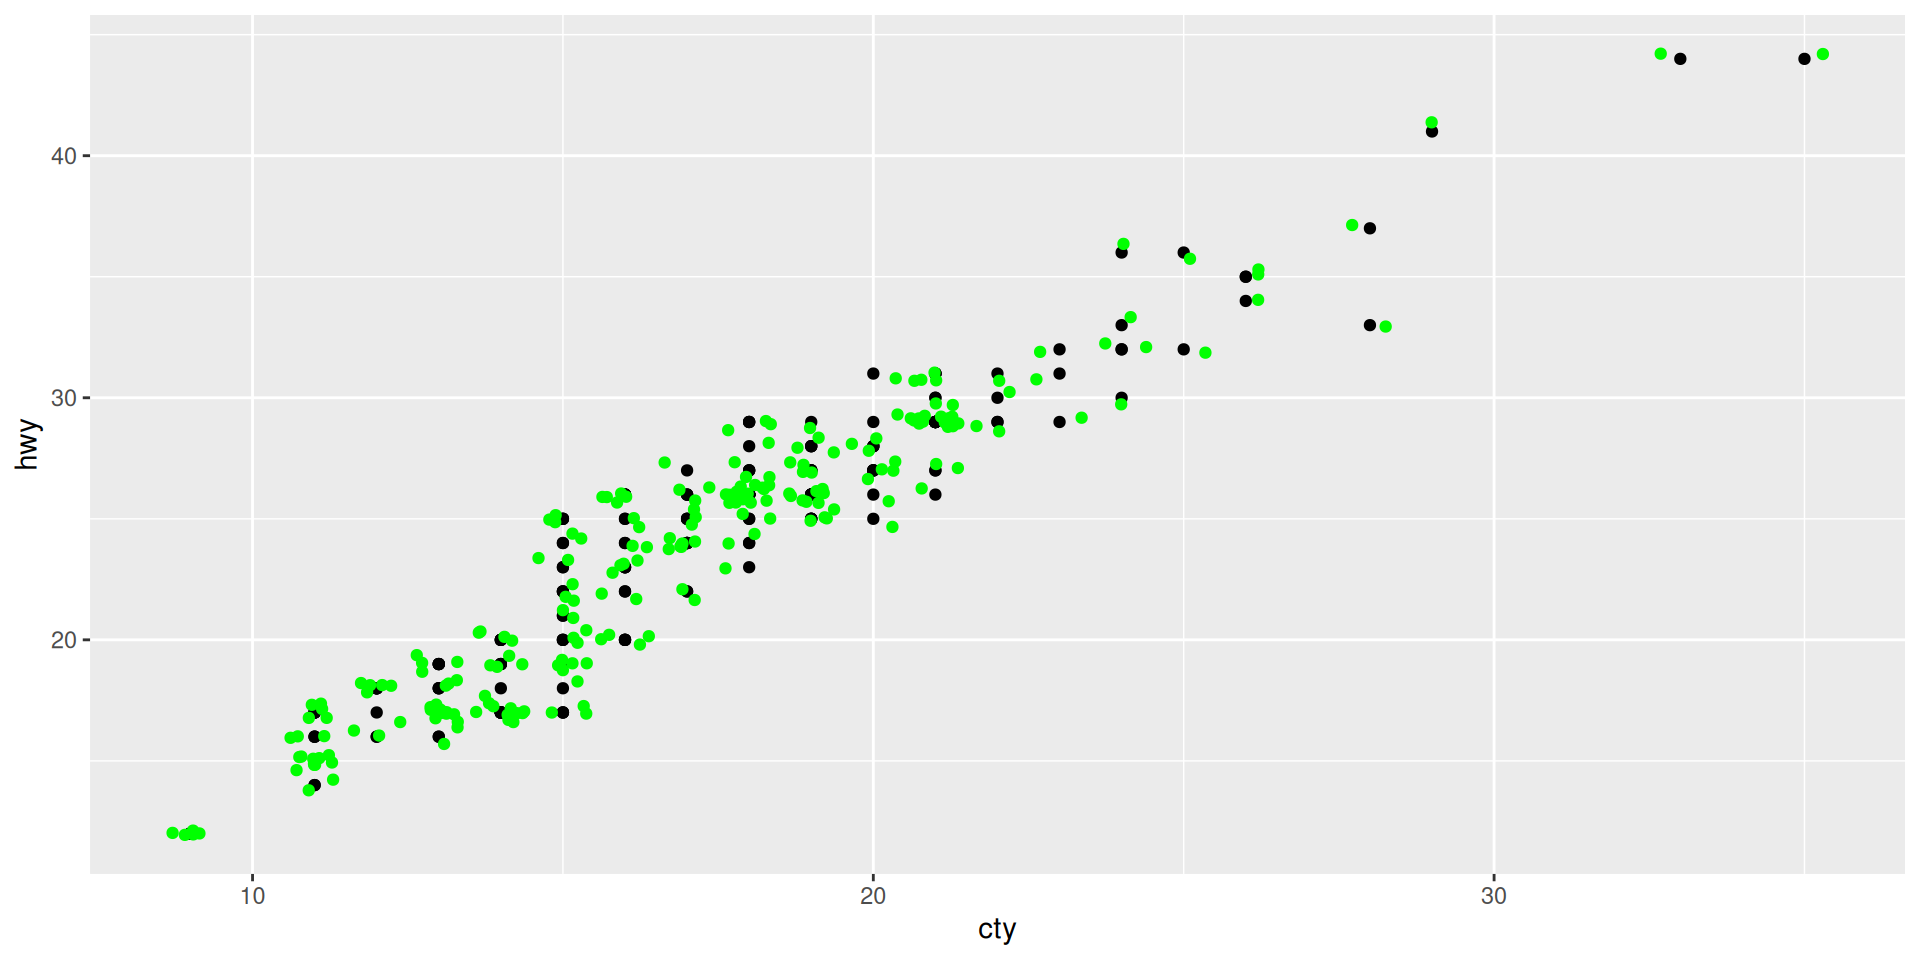
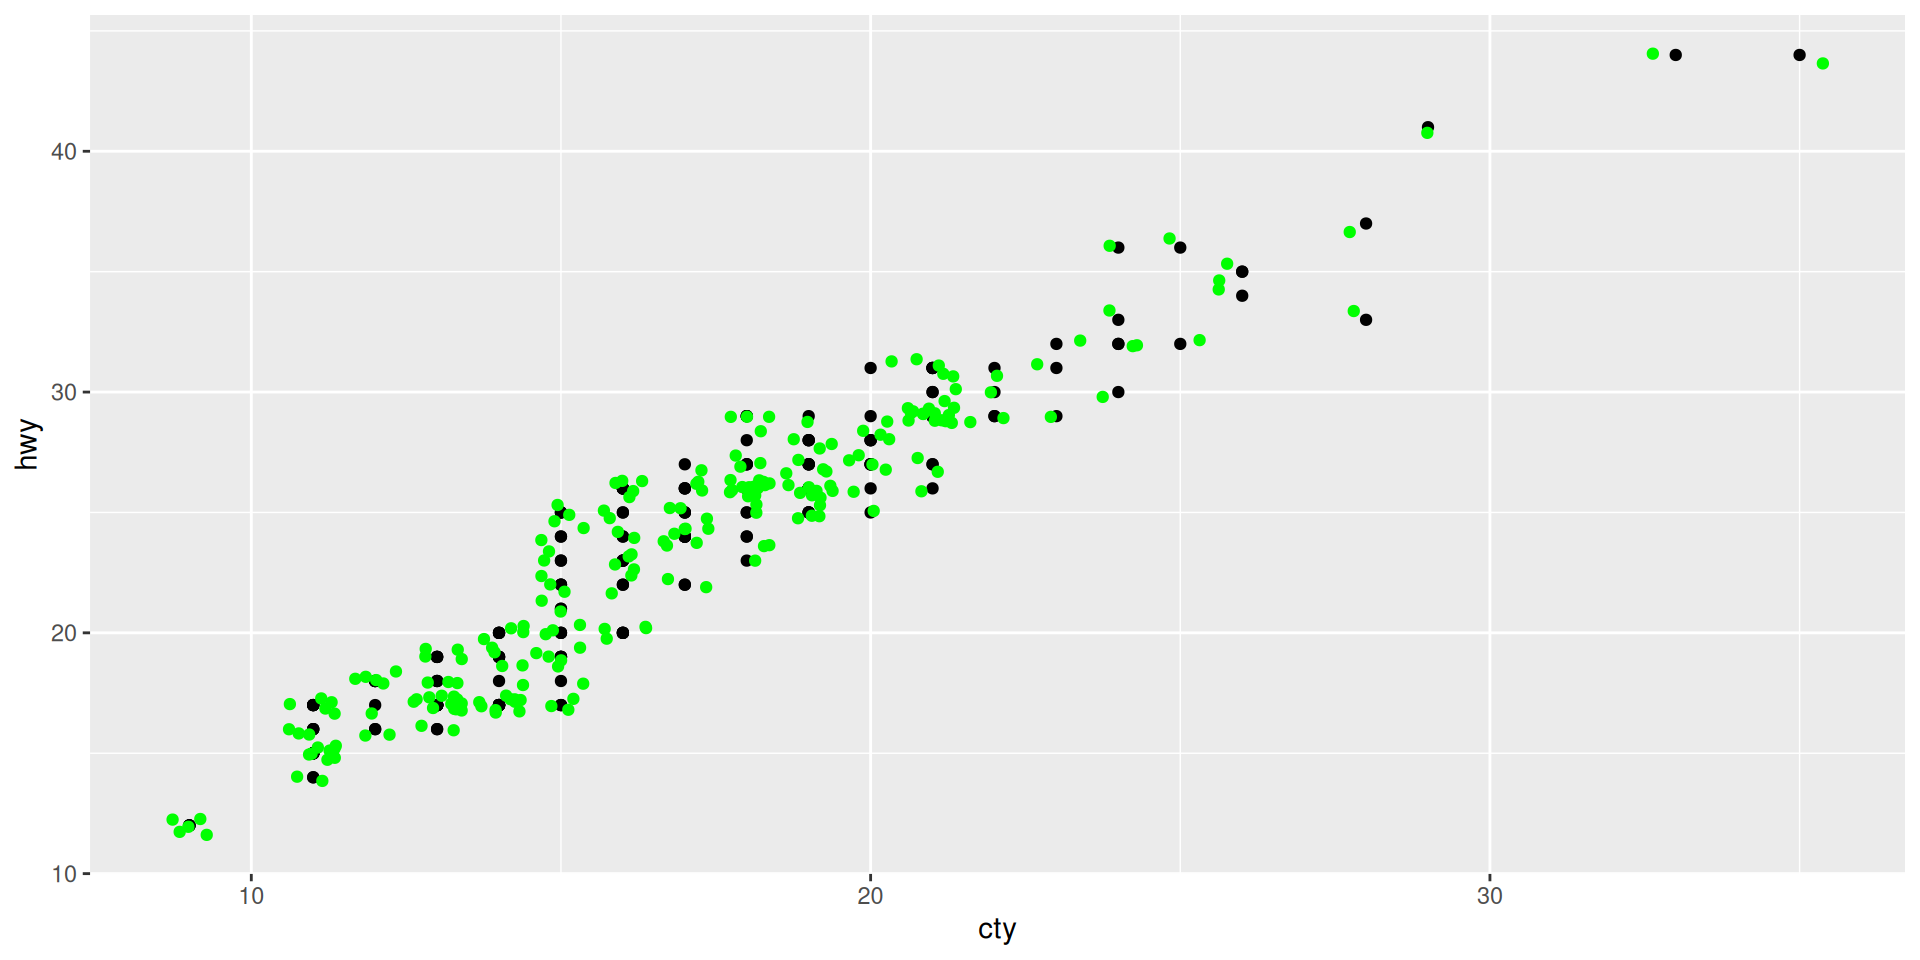
Built site for gh-pages

diff --git a/lectures/W02.html b/lectures/W02.html
@@ -221,7 +221,9 @@ Jan Lorenz
 <li><a href="#/a-short-tour-through-examples-of-data-visualization" id="/toc-a-short-tour-through-examples-of-data-visualization">A short tour through examples of data visualization</a></li>
 <li><a href="#/grammar-of-graphics" id="/toc-grammar-of-graphics">Grammar of Graphics</a></li>
 <li><a href="#/ggplot-workflow" id="/toc-ggplot-workflow"><code>ggplot</code> workflow</a></li>
-<li><a href="#/data-types-and-tidy-data" id="/toc-data-types-and-tidy-data">Data Types and Tidy Data</a></li>
+<li><a href="#/data-types" id="/toc-data-types">Data Types</a></li>
+<li><a href="#/tidy-data" id="/toc-tidy-data">Tidy Data</a></li>
+<li><a href="#/the-pipe" id="/toc-the-pipe">The pipe <code>|&gt;</code></a></li>
 </ul>
 </nav>
 </section>
@@ -699,9 +701,50 @@ The graphic information is stored in the object <code>our_plot</code>.</p>
 </div>
 <img data-src="W02_files/figure-revealjs/unnamed-chunk-27-1.png" width="960" class="r-stretch"></section></section>
 <section>
-<section id="data-types-and-tidy-data" class="title-slide slide level1 center">
-<h1>Data Types and Tidy Data</h1>
-<p>Introduction on external <a href="https://docs.google.com/presentation/d/e/2PACX-1vSUztQChBhc2kUX2GknQ7PfXa12xdCPTV6R-Qe1bP-T5lEmBBJcIVJF3BaChn5kw-mZNXusESZrUr2Z/pub?start=false&amp;loop=false&amp;delayms=3000">Presentation</a></p>
+<section id="data-types" class="title-slide slide level1 center">
+<h1>Data Types</h1>
+
+</section>
+<section id="tabular-data" class="slide level2">
+<h2>Tabular Data</h2>
+<p>For analysis we need <strong>well structured data</strong>. Often <span class="text-red"><strong>tabular form</strong></span>. Like a spreadsheet:</p>
+
+<img data-src="img/tabulardata.png" class="r-stretch"><p>Dimension of a table: Always count the rows first! <span class="text-red"><strong>m-by-n table</strong></span><br>
+Example: cell <strong>(4,3)</strong> is in <strong>row 4</strong> and <strong>column 3</strong>.</p>
+<p>Warning: Spreadsheet cell labelling differs. Columns have letter-labels and go first.<br>
+<strong>Cell (4,3) is C4</strong></p>
+</section>
+<section id="basic-data-types-in-r-atomic-vectors" class="slide level2">
+<h2>Basic Data types in R, atomic vectors</h2>
+<p><span class="text-red"><strong>character:</strong></span> <code>"a"</code>, <code>"swc"</code><br>
+<span class="text-red"><strong>double:</strong></span> <code>2</code>, <code>15.5</code> (double precision floating point numbers)<br>
+<strong>integer:</strong> <code>2L</code> (L tells R to store as integer)<br>
+<span class="red"><strong>logical:</strong></span> <code>TRUE</code>, <code>FALSE</code><br>
+<strong>complex:</strong> <code>1+4i</code> (complex number with real and imaginary parts)<br>
+These exist in similar ways in other programming languages.</p>
+<p><span class="text-red"><strong>Atomic vectors</strong></span> are <strong><em>ordered</em></strong> <em>collections</em> of values of the same data type.<br>
+<strong>Construction in R:</strong> <code>c(2,3,4)</code> or <code>c(TRUE, FALSE)</code> or <code>c("A","B")</code><br>
+<strong>Properties:</strong> <code>typeof()</code> and <code>length()</code></p>
+
+<aside><div>
+<p>For historic reasons, <em>double</em> and <em>integer</em> are both of the R class <strong><em>numeric</em></strong>. Another rare data type <em>raw</em> which stores bytes. Check the type of an object <code>x</code> with <code>typeof(x)</code>.</p>
+</div></aside></section>
+<section id="type-coercion" class="slide level2">
+<h2>Type Coercion</h2>
+<p><strong>What happens when values of different data type are combined?</strong><br>
+(in R and python or other <em>dynamically typed</em> programming languages)</p>
+<p>Combined could mean for example for <code>x</code> and <code>y</code></p>
+<ul>
+<li>Put together in a vector <code>c(x,y)</code></li>
+<li>Added (e.g.&nbsp;with <code>x + y</code>)</li>
+<li>Compared (e.g.&nbsp;with <code>x == y</code>)</li>
+</ul>
+<div class="fragment">
+<p><span class="tex-red"><strong>Coercion!</strong></span></p>
+<p>logical + integer -&gt; integer (TRUE is 1, FALSE is 0)<br>
+integer + double -&gt; double<br>
+double + character -&gt; character</p>
+</div>
 </section>
 <section id="let-us-test-coercion" class="slide level2">
 <h2>Let us test coercion</h2>
@@ -833,12 +876,140 @@ eyJhdHRyIjp7ImVkaXQiOnRydWUsImV2YWwiOnRydWV9LCJjb2RlIjoieCA8LSBUUlVFXG55IDwtIDJM
 <p>Aha, the difference is about <span class="math inline">\(2.8 \times 10^{-17}\)</span> (The <code>e</code> stands for <a href="https://en.wikipedia.org/wiki/Scientific_notation">scientific notation</a>, learn to read it!) Such problems can happen when subtracting and comparing floating point numbers!</p>
 </div>
 </section>
-<section id="tidying" class="slide level2">
-<h2>Tidying</h2>
-<p>What is tidy depends to some extent on the purpose you want to use the data for.</p>
-<p>Let us practice the two important commands</p>
-<p><code>pivot_longer</code></p>
-<p><code>pivot_wider</code></p>
+<section id="lists-dataframes-tibbles" class="slide level2">
+<h2>Lists, Dataframes (=Tibbles)</h2>
+<div class="columns">
+<div class="column">
+<p><span class="text-red"><strong>List</strong></span> <code>list()</code></p>
+<ul>
+<li>act as container</li>
+<li>contents of a list are not restricted to a single type</li>
+<li>lists can contain further lists (and so on …)</li>
+<li>the basic data type for building and storing complex data structures</li>
+<li>in R syntax the “$” is important for constructing and accessing</li>
+</ul>
+</div><div class="column fragment">
+<p><span class="text-red"><strong>Dataframe</strong></span></p>
+<ul>
+<li>the way to store tabular data</li>
+<li>it can be seen as a <strong>list of atomic vectors which all have the same length</strong></li>
+</ul>
+<p><span class="text-red"><strong>Tibble</strong></span></p>
+<ul>
+<li>An advanced type of data frame invented in the tidyverse</li>
+<li>Behaves a bit nicer in daily routines</li>
+<li>Largely identical in behavior and easy to convert</li>
+</ul>
+</div></div>
+</section>
+<section id="tibble-and-data." class="slide level2">
+<h2>tibble and data.</h2>
+<div class="cell">
+<div>
+<div id="webr-3" class="exercise-cell">
+
+</div>
+<script type="webr-3-contents">
[1 lines of base64/hex data omitted]
+</script>
+</div>
+</div>
+</section>
+<section id="data-types-summary" class="slide level2">
+<h2>Data Types Summary</h2>
+<div class="columns">
+<div class="column">
+<p>The most important basic data types:</p>
+<ul>
+<li>character</li>
+<li>logical</li>
+<li>double</li>
+</ul>
+<p>These can be combined to atomic vectors: an indexed list of n values</p>
+<ul>
+<li>character vector</li>
+<li>logical vector</li>
+<li>double vector</li>
+</ul>
+</div><div class="column">
+<p><strong>Lists</strong> are similar to vectors (and indexed list of n values) but every element can be anything, an atomic vector of any type and length or even another list.</p>
+<p><strong>Dataframes</strong> (and <strong>Tibbles</strong>) are a special type of lists: A list of atomic vectors (the columns) of the same length. Additional to the numerical index 1 to n, the list elements also have names (the variable names).</p>
+</div></div>
+</section></section>
+<section>
+<section id="tidy-data" class="title-slide slide level1 center">
+<h1>Tidy Data</h1>
+
+</section>
+<section id="definition-of-tidy" class="slide level2">
+<h2>Definition of tidy</h2>
+<p><img data-src="img/tidydata.png"></p>
+<p>There are three interrelated rules which make a dataset tidy:</p>
+<ul>
+<li>Each variable must have its own column.</li>
+<li>Each observation must have its own row.</li>
+<li>Each value must have its own cell.</li>
+</ul>
+
+<aside><div>
+<p>The name of the concept <em>tidy data</em> is promoted in the tidyverse (who could have guessed…)</p>
+</div></aside></section>
+<section id="example-tidy-data" class="slide level2">
+<h2>Example Tidy Data</h2>
+<p>Which data is tidy?</p>
+<div class="absolute fragment" style="">
+<p><img data-src="img/tidyexample1.png"></p>
+</div>
+<div class="absolute fragment" style="">
+<p><img data-src="img/tidyexample2.png"></p>
+</div>
+<div class="absolute fragment" style="">
+<p><img data-src="img/tidyexample3.png"></p>
+</div>
+</section>
+<section id="characteristics-of-tidy-data" class="slide level2">
+<h2>Characteristics of tidy data</h2>
+<p><strong>Tidy data</strong></p>
+<ul>
+<li>Each column is a meaningful variable</li>
+<li>Each row is a meaningful observation</li>
+</ul>
+<p>Additionally</p>
+<ul>
+<li>Each type of observational unit forms another table (see the nycflights13 data for a collection of connected tables)</li>
+</ul>
+<div class="fragment">
+<p><strong>Untidy data</strong></p>
+</div>
+<div class="fragment">
+<p>… can be anything</p>
+</div>
+</section>
+<section id="pivoting" class="slide level2">
+<h2>Pivoting</h2>
+<p>Functions from the <code>tidyverse</code> package <code>tidyr</code></p>
+<div class="columns">
+<div class="column">
+<p>The most important functions are</p>
+<p><strong><code>pivot_longer()</code></strong><br>
+<code>pivot_wider()</code></p>
+<p>Pivoting to longer means that we collect variable names in a new variable</p>
+</div><div class="column">
+<p><img data-src="img/pivot_longer.png"></p>
+</div></div>
+</section>
+<section id="pivoting-to-wider" class="slide level2">
+<h2>Pivoting to wider</h2>
+<div class="columns">
+<div class="column">
+<p>When observation is scattered across multiple rows. Typically you have</p>
+<ul>
+<li>A key-variable which makes the new column names</li>
+<li>A value-variable which makes the values in the cells of the new variables</li>
+</ul>
+</div><div class="column">
+<p><img data-src="img/pivot_wider.png"></p>
+</div></div>
 </section>
 <section id="pivot_longer" class="slide level2">
 <h2><code>pivot_longer</code></h2>
@@ -878,9 +1049,14 @@ eyJhdHRyIjp7ImVkaXQiOnRydWUsImV2YWwiOnRydWV9LCJjb2RlIjoieCA8LSBUUlVFXG55IDwtIDJM
 6     3 height_2024    172</code></pre>
 </div>
 </div>
+</section></section>
+<section>
+<section id="the-pipe" class="title-slide slide level1 center">
+<h1>The pipe <code>|&gt;</code></h1>
+
 </section>
-<section id="input-the-pipe" class="slide level2">
-<h2>Input: The pipe <code>|&gt;</code></h2>
+<section id="section" class="slide level2">
+<h2><code>|&gt;</code></h2>
 <p>In data wrangling it is common to do various data manipulations one after the other.<br>
 A common tool is to use the pipe to give it an ordered structure in the writing.</p>
 <p>The basic idea is:<br>
@@ -1012,7 +1188,7 @@ Do I need to learn it again for python?? <span class="fragment"><span style="col
[1 lines of base64/hex data omitted]
 </script>
 <script type="ojs-module-contents">
[2 lines of base64/hex data omitted]
 </script>
 <div id="exercise-loading-indicator" class="exercise-loading-indicator d-none d-flex align-items-center gap-2">
 <div id="exercise-loading-status" class="d-flex gap-2">
